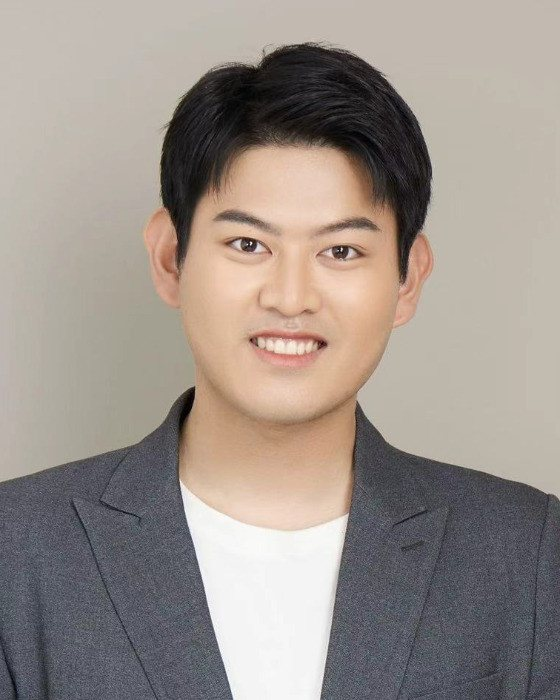
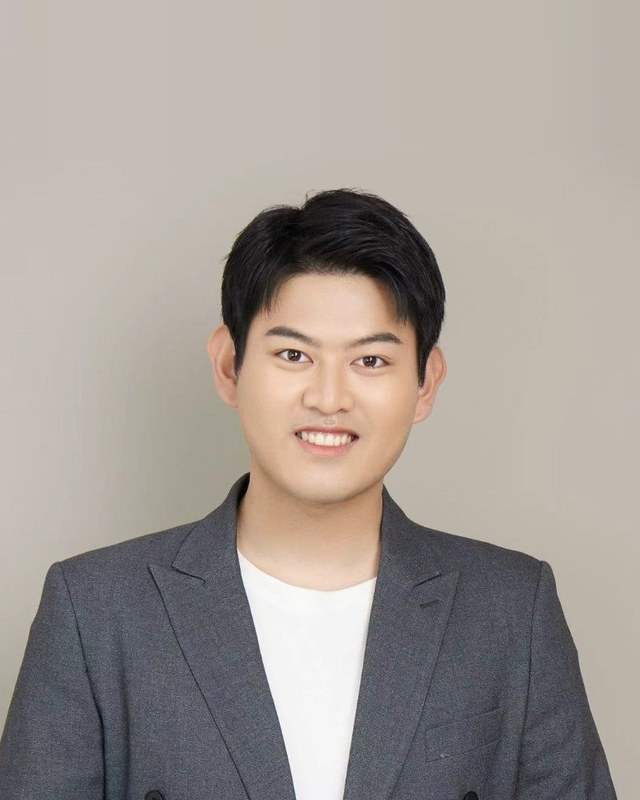
Loosen the portrait crop

diff --git a/index.html b/index.html
@@ -96,7 +96,7 @@
       </ul>
     </div>
     <div class="photo">
-      <img class="avatar" src="assets/yide-ran.jpg" alt="Yide Ran" width="560" height="700">
+      <img class="avatar" src="assets/yide-ran.jpg" alt="Yide Ran" width="640" height="800">
     </div>
   </header>
 
